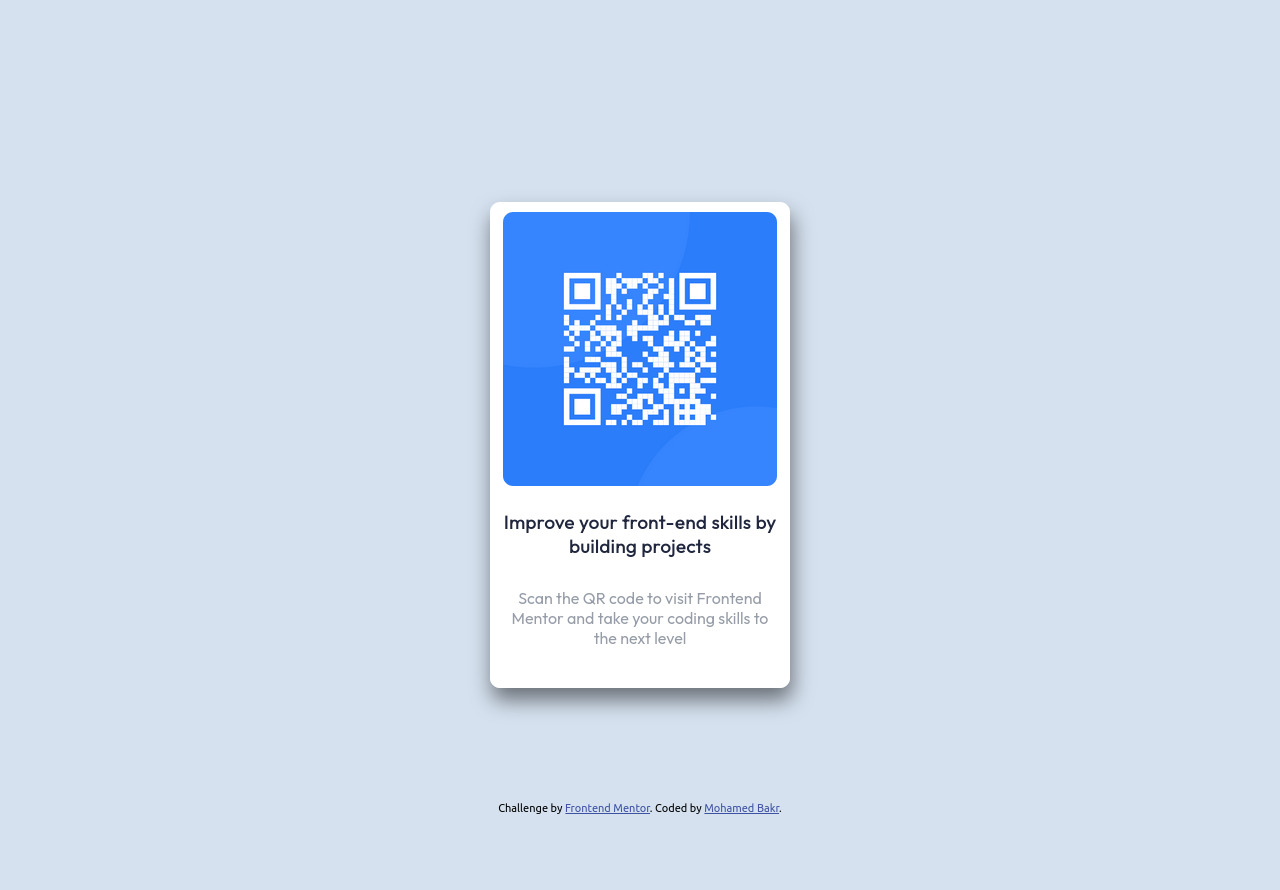
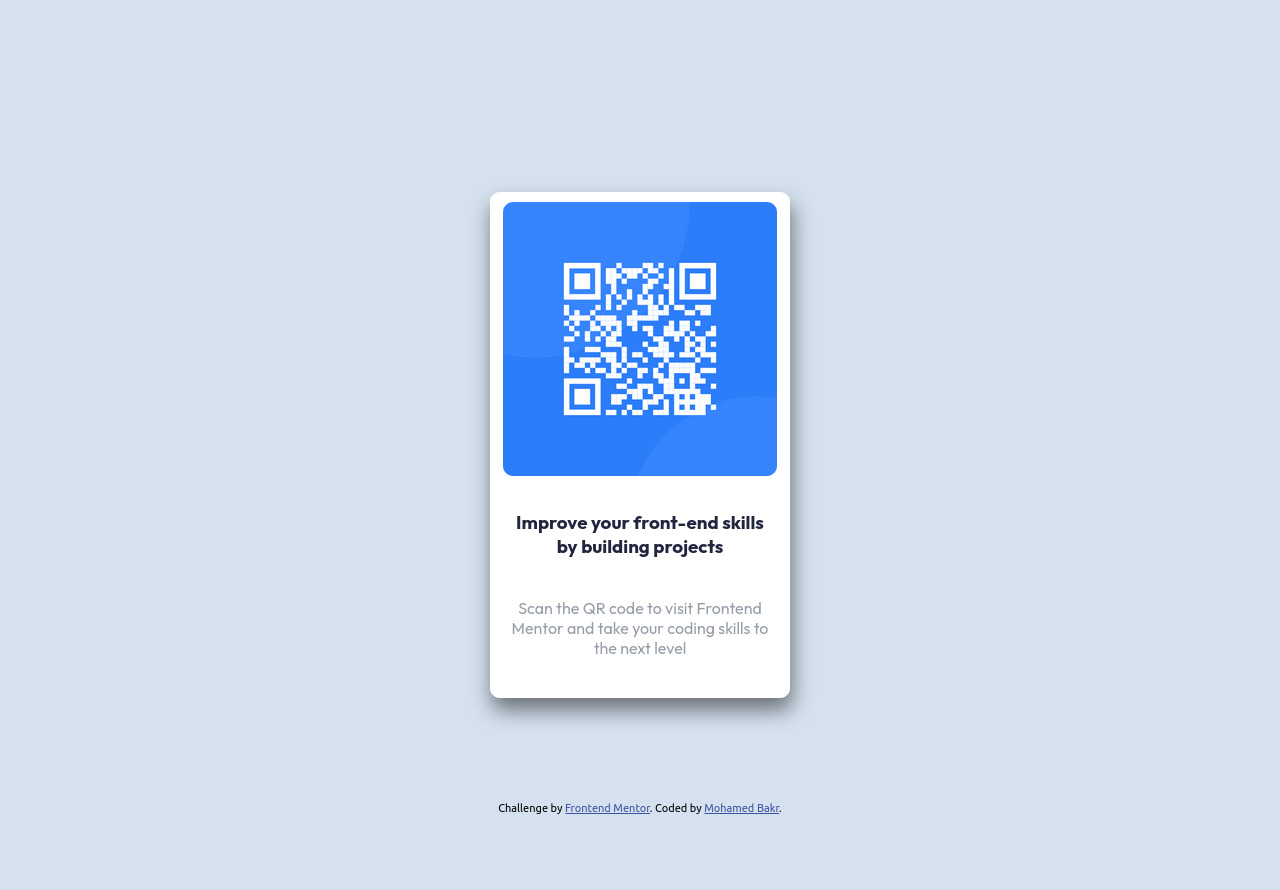
Added bold font style

diff --git a/style.css b/style.css
@@ -1,4 +1,4 @@
-@import url('https://fonts.googleapis.com/css2?family=Outfit&display=swap');
+@import url('https://fonts.googleapis.com/css2?family=Outfit:wght@100;300;400;700;800&display=swap');
 
 * {
     margin: 0;
@@ -36,12 +36,12 @@
 .container__card__heading {
     color: #20263d;
     font-weight: bolder;
+    padding: 10px;
 }
 
 .container__card__paragraph {
     margin-top: 20px;
     margin-bottom: 20px;
-    font-weight: lighter;
     color: #969da8;
     padding: 10px;
 }
